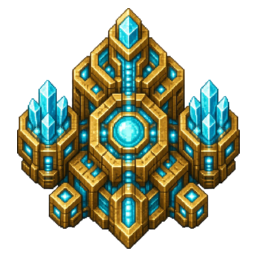
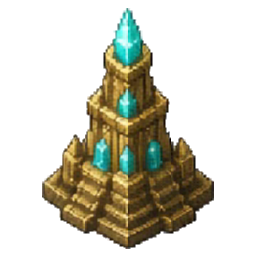
art: 일꾼·미네랄 배선, burrower와 기지 확정본 적용
일꾼은 노란 점, 미네랄은 청록 사각형으로 그려지고 있었다. 로더에 worker/
mineral 항목을 스트립으로 읽는 경로를 만들고 렌더러를 스프라이트로 바꿨다.
미네랄은 애니메이션이 아니라 변형 모음이라 지점·순번으로 칸을 골라
기지마다 다르게 보이되 프레임마다 흔들리지 않는다.

스프라이트 풀 반납을 drawEntities 안에서 draw 앞으로 옮겼다 — 미네랄과
일꾼이 drawFields에서 먼저 스프라이트를 쓰기 때문이다.

격자 시트를 스트립으로 펴는 tools/strip.mjs 추가. 배율은 가장 큰 칸 기준
하나만 써서 원본의 크기 차이를 남긴다.

burrower로 유닛 22종 완료. 기지는 종족별 본진·확장 6장 모두 확정본으로 교체.

Claude-Session: https://claude.ai/code/session_01NexbDPSAtwGDSwo3StwTsK

diff --git a/packages/client/src/render.ts b/packages/client/src/render.ts
@@ -45,6 +45,14 @@ const PX_PER_TILE = 30;
  * 소형이 맞아떨어지도록 잡은 값이다.
  */
 const UNIT_SPRITE_H = PX_PER_TILE * 2.0;
+/**
+ * 미네랄 덩이와 일꾼.
+ *
+ * 기지 하나에 덩이 4개와 일꾼 8기가 폭 1.65타일 안에 들어간다. 유닛 규격을
+ * 그대로 쓰면 서로 뭉개지므로 훨씬 작게 잡는다 — 읽히기만 하면 되는 배경 요소다.
+ */
+const MINERAL_SPRITE_H = PX_PER_TILE * 0.85;
+const WORKER_SPRITE_H = PX_PER_TILE * 0.7;
 export const VIEW_W = (ARENA_W / SCALE) * PX_PER_TILE;
 export const VIEW_H = (ARENA_H / SCALE) * PX_PER_TILE;
 
@@ -156,6 +164,8 @@ export class Renderer {
       this.drawTerrain(input.myTeam);
       this.terrainDrawn = true;
     }
+    // 미네랄·일꾼도 스프라이트를 쓰므로 풀 반납은 첫 사용처보다 앞에서 한 번에 한다
+    this.resetSprites();
     this.drawFields(input);
     this.drawZone(input);
     this.drawEntities(input);
@@ -264,7 +274,7 @@ export class Renderer {
       const [sx, sy] = this.toScreen(site.x, site.y, myTeam);
       g.circle(sx, sy, this.pxLen(1200));
       g.stroke({ width: 2, color: COLORS.siteMarker, alpha: 0.35 });
-      this.drawMineralPatches(g, sx, sy, 1, 0.25);
+      this.drawMineralPatches(g, sx, sy, 1, 0.25, site.id);
     }
 
     for (const e of state.entities) {
@@ -281,18 +291,36 @@ export class Renderer {
 
       // 남은 매장량에 비례해 미네랄 덩이를 그린다
       const left = Math.ceil((e.reserve / BASE_MINERAL_RESERVE) * MINERAL_PATCHES);
-      this.drawMineralPatches(g, sx, sy, left, 1);
+      this.drawMineralPatches(g, sx, sy, left, 1, e.siteId);
     }
   }
 
-  /** 기지 아래쪽에 미네랄 덩이를 늘어놓는다 */
-  private drawMineralPatches(g: Graphics, sx: number, sy: number, count: number, alpha: number): void {
+  /**
+   * 기지 아래쪽에 미네랄 덩이를 늘어놓는다.
+   *
+   * `seed`는 지점 번호다 — 덩이마다 다른 변형을 고르되 같은 지점은 매 프레임
+   * 같은 모양이어야 하므로, 난수가 아니라 지점·순번으로 결정한다.
+   */
+  private drawMineralPatches(
+    g: Graphics,
+    sx: number,
+    sy: number,
+    count: number,
+    alpha: number,
+    seed: number,
+  ): void {
     const gap = PX_PER_TILE * 0.55;
     const y = sy + PX_PER_TILE * 1.15;
     const startX = sx - (gap * (MINERAL_PATCHES - 1)) / 2;
     for (let i = 0; i < count && i < MINERAL_PATCHES; i++) {
-      g.rect(startX + gap * i - 4, y - 4, 8, 8);
-      g.fill({ color: COLORS.mineral, alpha });
+      const x = startX + gap * i;
+      const tex = art.mineral(seed * MINERAL_PATCHES + i);
+      if (tex) {
+        this.place(tex, x, y + MINERAL_SPRITE_H * 0.3, MINERAL_SPRITE_H, 1).alpha = alpha;
+      } else {
+        g.rect(x - 4, y - 4, 8, 8);
+        g.fill({ color: COLORS.mineral, alpha });
+      }
     }
   }
 
@@ -317,7 +345,6 @@ export class Renderer {
     g.clear();
     d.clear();
     this.resetLabels();
-    this.resetSprites();
     this.pruneAnimState(state);
 
     for (const e of state.entities) {
@@ -544,8 +571,13 @@ export class Renderer {
       const t = phase < 0.5 ? phase * 2 : (1 - phase) * 2;
       const wx = startX + gap * lane + (row === 1 ? gap * 0.28 : -gap * 0.28);
       const wy = sy + (patchY - sy) * t;
-      g.circle(wx, wy, 2.6);
-      g.fill(COLORS.worker);
+      // 걷기 프레임도 같은 위상에서 고른다 — 왕복 위치와 다리가 따로 놀지 않는다
+      const tex = art.worker(phase);
+      if (tex) this.place(tex, wx, wy, WORKER_SPRITE_H, 1, phase < 0.5 ? 1 : -1);
+      else {
+        g.circle(wx, wy, 2.6);
+        g.fill(COLORS.worker);
+      }
     }
   }
 

diff --git a/packages/client/src/art.ts b/packages/client/src/art.ts
@@ -45,8 +45,19 @@ export interface ArtManifest {
    * (옛 배열 형태 `["main","expansion"]`도 종족 무관 공용으로 읽는다)
    */
   bases?: string[] | Record<string, string[]>;
-  /** 일꾼 이미지가 있는지 */
-  worker?: boolean;
+  /**
+   * 일꾼 — `worker.png`.
+   *
+   * `true`면 정지 이미지 한 장, 정의를 주면 가로 스트립을 걷기 순환으로 읽는다.
+   */
+  worker?: boolean | AnimDef;
+  /**
+   * 미네랄 덩이 — `mineral.png`.
+   *
+   * 애니메이션이 아니라 **변형 모음**이다. 스트립을 프레임 수만큼 쪼개
+   * 덩이마다 다른 칸을 골라 쓴다 (`fps`는 쓰이지 않는다).
+   */
+  mineral?: boolean | AnimDef;
 }
 
 /** 재생 가능한 프레임 묶음 */
@@ -137,7 +148,13 @@ class ArtLibrary {
       }
     }
 
-    if (probe || manifest?.worker) wanted.push(['worker', artUrl('worker.png'), null]);
+    // 일꾼·미네랄은 유닛이 아니라서 매니페스트 항목이 따로다.
+    // `true`면 한 장, 정의가 오면 스트립으로 읽는다.
+    for (const name of ['worker', 'mineral'] as const) {
+      const def = manifest?.[name];
+      if (probe || def === true) wanted.push([name, artUrl(`${name}.png`), null]);
+      else if (def) wanted.push([`clip:${name}:all`, artUrl(`${name}.png`), def]);
+    }
 
     if (!wanted.length) return;
 
@@ -200,8 +217,28 @@ class ArtLibrary {
     return this.tex.get(`base:${faction}:${kind}`) ?? this.tex.get(`base:*:${kind}`) ?? null;
   }
 
-  worker(): Texture | null {
-    return this.tex.get('worker') ?? null;
+  /**
+   * 일꾼의 걷기 프레임.
+   *
+   * `phase`(0~1)로 프레임을 고른다 — 렌더러가 일꾼마다 위상을 어긋나게 주고
+   * 있어서, 같은 값을 쓰면 다리도 저절로 따로 논다.
+   */
+  worker(phase = 0): Texture | null {
+    const still = this.tex.get('worker');
+    if (still) return still;
+    const clip = this.clips.get('clip:worker:all');
+    if (!clip) return null;
+    const n = clip.textures.length;
+    return clip.textures[Math.min(n - 1, Math.floor(phase * n))];
+  }
+
+  /** 미네랄 덩이. 덩이 번호마다 다른 변형을 돌려준다 */
+  mineral(variant = 0): Texture | null {
+    const still = this.tex.get('mineral');
+    if (still) return still;
+    const clip = this.clips.get('clip:mineral:all');
+    if (!clip) return null;
+    return clip.textures[variant % clip.textures.length];
   }
 
   /** 이미지가 한 장이라도 있는지 */

diff --git a/docs/ART_ORDERS.md b/docs/ART_ORDERS.md
@@ -112,12 +112,14 @@
 - [ ] ~~`mindbreak` 정신붕괴~~ *(주문 — 유닛 아트 없음)*
 
 유닛 외
-- [x] 기지 파이프라인 (종족별 로더·도구·도형 폴백) — 임시 이미지로 검증됨
-- [ ] `bases/<종족>.main` 본진 3종 — 확정본
-- [ ] `bases/<종족>.expansion` 확장 기지 3종 — 확정본
-- [ ] `worker` 일꾼
-- [ ] 미네랄 덩이
-- [ ] 이펙트 시트 (투사체 · 착탄 · 폭발 · 연기)
+- [x] 기지 파이프라인 (종족별 로더·도구·도형 폴백)
+- [x] `bases/<종족>.main` 본진 3종
+- [x] `bases/<종족>.expansion` 확장 기지 3종
+- [x] `worker` 일꾼
+- [x] 미네랄 덩이
+- [ ] 이펙트 시트 (투사체 · 착탄 · 폭발 · 연기) — 이미지는 있으나 **꽂을 곳이 없다.**
+      이 게임엔 투사체 엔티티가 없고 데미지가 즉시 들어간다. 렌더 전용
+      이펙트 레이어(M7.5)를 먼저 만들어야 쓸 수 있다
 
 **실제로 만들 유닛은 22종**이다. 주문 2종은 화면 효과라 유닛 스프라이트가 없다.
 
@@ -162,6 +164,34 @@ node tools/base-art.mjs ../../art-src/clean/steel.png \
 
 원본에서 확장이 본진보다 작게 그려져 있어도 상관없다 — **화면 크기는 코드가
 정한다** (본진 2.4타일, 확장 1.8타일). 도구는 각 칸을 따로 256×256에 채운다.
+
+## 2.6 일꾼과 미네랄
+
+유닛도 기지도 아니다. **가로 한 줄 스트립** 한 장씩이고, `strip.mjs`가 만든다.
+
+| | 파일 | 쓰는 칸 | 매니페스트 |
+|---|---|---|---|
+| 일꾼 | `art/worker.png` | 1행 5칸 (걷기) | `"worker": { "frames": 5, "fps": 8 }` |
+| 미네랄 | `art/mineral.png` | 10칸 전부 (변형) | `"mineral": { "frames": 10, "fps": 8 }` |
+
+미네랄은 애니메이션이 아니라 **변형 모음**이다. 기지마다 덩이 4개가 놓이는데
+지점 번호와 순번으로 칸을 골라서, 기지끼리 다르게 생기되 매 프레임 같은 모양이
+유지된다.
+
+```bash
+node tools/dealpha.mjs ../../art-src/worker.png --shadow
+node tools/strip.mjs ../../art-src/clean/worker.png --out worker.png \
+     --grid 2x5 --cell 64 --take 1,1-1,5
+node tools/strip.mjs ../../art-src/clean/mineral.png --out mineral.png \
+     --grid 2x5 --cell 64
+```
+
+`--take`를 빼면 격자 전체를 행 우선으로 편다. **배율은 칸마다 따로 잡지 않고
+가장 큰 칸 기준 하나만 쓴다** — 원본의 크기 차이가 남아야 덩이가 자연스럽게
+들쭉날쭉해진다.
+
+화면에서는 덩이 0.85타일, 일꾼 0.7타일로 그린다. 기지 하나에 덩이 4개와
+일꾼 8기가 폭 1.65타일 안에 들어가므로 유닛 규격(2타일)을 쓰면 서로 뭉개진다.
 
 ## 3. 유닛 종류별 요령
 
